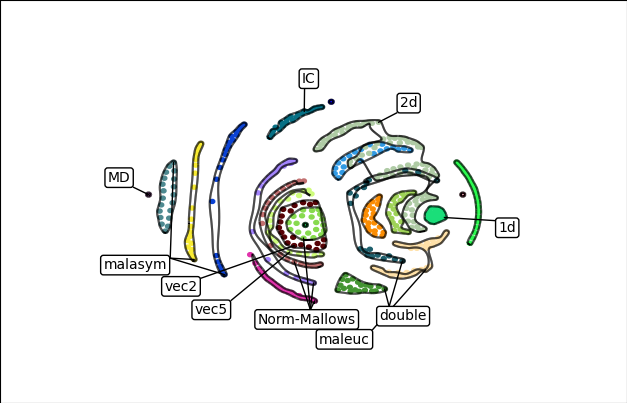
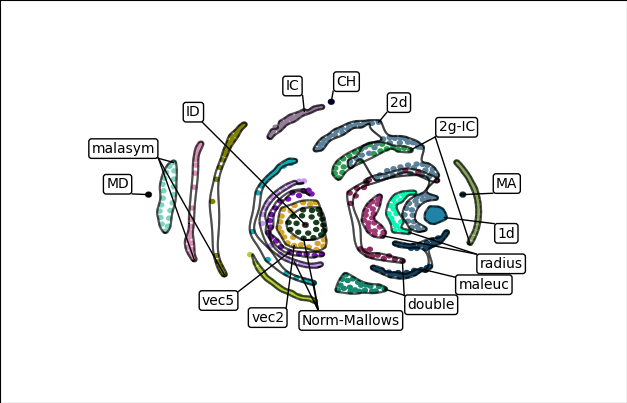
divide and conquare solution finished + pngs tests generated

diff --git a/src/generator/labels_generator.py b/src/generator/labels_generator.py
@@ -79,17 +79,11 @@ def divide_and_conquare(ll):
             merged_ll[intersections_i[0]].append(label)
             for i in range(1,len(intersections_i)):
                 merged_ll[intersections_i[0]].extend(merged_ll[intersections_i[i - shift]])
-                merged_ll.pop(i - shift)
+                merged_ll.pop(intersections_i[i - shift])
                 shift += 1
         else:
             merged_ll.append([label])
-    
-    print(len(ll))
-    print(len(merged_ll))
-    sm = 0
-    for s in merged_ll:
-        sm += len(s)
-    print(sm)
+
     return merged_ll
 
 # ---------------------------------------------------------------------------- #
@@ -123,6 +117,9 @@ class Label:
         self.points = self.get_points()
         self.t_point = self.get_tpoint()
 
+    def __repr__(self):
+        return self.text
+
     def update_params(self, r, a, t):
         self.r = r
         self.a = a
@@ -148,7 +145,7 @@ class Label:
             return tuple_add(self.points[3], (0, self.height*(self.t % 1)))
         
     def get_point(self):
-        return self.rp_x + self.r*np.sin(self.a), self.rp_y + self.r*np.cos(self.a)
+        return self.rp_x + self.r*np.cos(self.a), self.rp_y + self.r*np.sin(self.a)
     
     def get_err(self, include_x0: bool = False):
         if include_x0:
@@ -234,7 +231,7 @@ class MultiRefLabel(Label):
         self.t_point = self.get_tpoint()
 
     def get_point(self):
-        return self.rps_x[0] + self.r*np.sin(self.a), self.rps_y[0] + self.r*np.cos(self.a)
+        return self.rps_x[0] + self.r*np.cos(self.a), self.rps_y[0] + self.r*np.sin(self.a)
         
     def get_err(self, include_x0: bool = False):
         err_sum = 0
@@ -368,18 +365,31 @@ def greedy(middle_point: Point, ll: List[Label], ms: MainSet) -> np.ndarray:
         nx, ny = mpx + t*(lpx-mpx), mpy + t*(lpy-mpy)
 
         # set new label parameters based on what positioning
+        nt = 0
         if lpy >= mpy and lpx >= mpx:
             # upper right
-            label.update_params(nx + label.width/2, ny + label.height/2, 3)
+            nx += label.w2
+            ny += label.h2
+            nt = 3
         elif lpy >= mpy and lpx < mpx:
             # upper left
-            label.update_params(nx - label.width/2, ny + label.height/2, 2)
+            nx -= label.w2
+            ny += label.h2
+            nt = 2
         elif lpy < mpy and lpx >= mpx:
             # lower right
-            label.update_params(nx + label.width/2, ny - label.height/2, 0)
+            nx += label.width/2
+            ny -= label.height/2
+            nt = 0
         else:
             # lower left
-            label.update_params(nx - label.width/2, ny - label.height/2, 1)
+            nx -= label.width/2
+            ny -= label.height/2
+            nt = 1
+        r = np.sqrt(np.square(nx-lpx) + np.square(ny-lpy))
+        a = np.arctan2((ny-lpy), (nx-lpx))
+
+        label.update_params(r, a, nt)
 
     return Label.ll_get(ll)
 
@@ -521,7 +531,66 @@ def mixed_loss(x: np.ndarray, label_list: List[Label], static_label_list: List[L
         # loss
         loss += label.get_err(include_x0_in_err)
 
-    return loss*((1 + intersections)**2)
+    return loss + intersections**2
+
+def mixed_square_loss(x: np.ndarray, label_list: List[Label], static_label_list: List[Label], main_set: MainSet, include_x0_in_err: bool = False):
+
+    # ---------------------------------- UPDATE ---------------------------------- #
+
+    for i, label in enumerate(label_list):
+        label.update_params(x[i*2], x[i*2+1], x[len(label_list)*2 + i])
+    
+    # ----------------------------------- LOSS ----------------------------------- #
+    
+    intersections = 0
+    loss = 0
+
+    for cur_label in label_list:
+
+        tp = cur_label.get_tpoint()
+        rp = cur_label.get_root_point()
+
+        # dynamic labels
+        for other_label in label_list:
+            if cur_label is not other_label:
+                
+                # label intersections
+                if other_label in cur_label:
+                    intersections += 5
+                
+                #line intersections
+                pts = other_label.get_points()
+                for point_idx in range(3):
+                    if MainSet._line_intersect(rp[0], rp[1], tp[0], tp[1], pts[point_idx][0], pts[point_idx][1], pts[point_idx+1][0], pts[point_idx+1][1]) is not None:
+                        intersections += 2
+                otp = other_label.get_tpoint()
+                orp = other_label.get_root_point()
+                if MainSet._line_intersect(rp[0], rp[1], tp[0], tp[1], orp[0], orp[1], otp[0], otp[1]) is not None:
+                    intersections += 2
+
+        # static labels
+        for other_label in static_label_list:
+            
+            # label intersections
+            if other_label in cur_label:
+                intersections += 5
+
+            #line intersections
+                pts = other_label.get_points()
+                for point_idx in range(3):
+                    if MainSet._line_intersect(rp[0], rp[1], tp[0], tp[1], pts[point_idx][0], pts[point_idx][1], pts[point_idx+1][0], pts[point_idx+1][1]) is not None:
+                        intersections += 2
+                otp = other_label.get_tpoint()
+                orp = other_label.get_root_point()
+                if MainSet._line_intersect(rp[0], rp[1], tp[0], tp[1], orp[0], orp[1], otp[0], otp[1]) is not None:
+                    intersections += 2
+        
+        if any(point in main_set for point in cur_label.points):
+            intersections += 15
+
+        loss += cur_label.get_err(include_x0_in_err)
+
+    return loss + intersections**2
     
 # ---------------------------------------------------------------------------- #
 #                                 HULL SWELLER                                 #
@@ -685,20 +754,22 @@ def calc(idata: InData,
         accept = curr_config['accept']
         no_local_search = curr_config['no_local_search']
         
-        res_ll = []
-        for group in divide_and_conquare(ll):
+        daql = divide_and_conquare(ll)
+        res_ll = [group[0] for group in daql if len(group) == 1]
+        for group in daql:
+
+            if len(group) == 1:
+                continue
             
-            # TODO: skip single optimizations
-            
-            labels_bounds = [(0, 150), (0, np.pi*2)]*len(group)
+            labels_bounds = [(0, 190), (0, np.pi*2)]*len(group)
             labels_bounds.extend([(0, 4)]*len(group))
             
-            lres = dual_annealing(mixed_loss, bounds=labels_bounds, args=(group, res_ll, mset),
+            lres = dual_annealing(mixed_square_loss, bounds=labels_bounds, args=(group, res_ll, mset),
                                   maxiter=maxiter, visit=visit, initial_temp=initial_temp, restart_temp_ratio=restart_temp_ratio, 
                                   accept=accept, no_local_search=no_local_search)
             lx = lres.x
 
-            loss = mixed_loss(lx, group, res_ll, mset) # updates the label with finall x (and calculates finall intersection flag)
+            loss = mixed_square_loss(lx, group, res_ll, mset) # updates the label with finall x
             res_ll.extend(group)
 
         x = Label.ll_get(res_ll)
@@ -722,17 +793,17 @@ def calc(idata: InData,
 def parse_solution_to_editor(labels: dict, state: dict) -> dict:
     
     for i, label_name in enumerate(labels.keys()):
-        
+
         # parse arrow set if possible
         arrows = {}
         if labels[label_name].get('rpoints'):
-            for i, rpoint in enumerate(labels[label_name]['rpoints']):
-                arrows[i] = {
+            for j, rpoint in enumerate(labels[label_name]['rpoints']):
+                arrows[j] = {
                     'ref_x': rpoint[0],
                     'ref_y': rpoint[1],
                     'att_x': labels[label_name]['tpoint'][0],
                     'att_y': labels[label_name]['tpoint'][1],
-                    'val': labels[label_name]['parameters'][i]
+                    'val': labels[label_name]['parameters'][j]
                 }
         else:
             arrows[0] = {
@@ -819,15 +890,9 @@ def _test():
 # [x] try polar coordinates
 # [x] iterative approach
 # [x] hull swelling
-# [ ] iterative with forced no intersection solution
-# [ ] divide and conquare solution (by initial x0)
+# [x] divide and conquare solution (by initial x0)
 # [ ] iterative x0
 # [ ] divide and conquare solution (after initial iterative solution, using final lines intersections)
-
-#Questions:
-# - filter na nazwy zbiorów dla których nie generujemy niczego / mergujemy parametry (łatwe do zrobienia ale nie wysokie w priorytecie)
-# - czy aktualne funkcjonalności (oprócz optymalizacji) to jest wszystko
-# - 
 
 # IMPORTANT
 

diff --git a/example.py b/example.py
@@ -3,12 +3,15 @@ from src.main import draw_maps, draw_maps_editor
 import time
 # draw_maps_editor("data/kk_swap_2d.csv", None)
 s = time.time()
-draw_maps("data/kk_swap_2d.csv", "pngs/kk_swap_2d_iter", config_id='iterative')
-draw_maps("data/smaller_data.csv", "pngs/smaller_data_iter", config_id='iterative')
+# draw_maps("data/kk_swap_2d.csv", "pngs/kk_swap_2d_iter", config_id='iterative')
+# draw_maps("data/smaller_data.csv", "pngs/smaller_data_iter", config_id='iterative')
 draw_maps("data/kamada_l1-mutual_attraction_2d.csv", "pngs/kamada_l1-mutual_attraction_2d_iter", config_id='iterative')
+e = time.time()
+print(f"{e-s}s")
 
-draw_maps("data/kk_swap_2d.csv", "pngs/kk_swap_2d_daq", config_id='divide_and_conquare')
-draw_maps("data/smaller_data.csv", "pngs/smaller_data_daq", config_id='divide_and_conquare')
+s = time.time()
+# draw_maps("data/kk_swap_2d.csv", "pngs/kk_swap_2d_daq", config_id='divide_and_conquare')
+# draw_maps("data/smaller_data.csv", "pngs/smaller_data_daq", config_id='divide_and_conquare')
 draw_maps("data/kamada_l1-mutual_attraction_2d.csv", "pngs/kamada_l1-mutual_attraction_2d_daq", config_id='divide_and_conquare')
 e = time.time()
 print(f"{e-s}s")

diff --git a/src/generator/hull_generator.py b/src/generator/hull_generator.py
@@ -366,7 +366,8 @@ def calc_hull(data: dict, circle_radious: float, points_in_circle: int, segment_
         _idx_points = [points_transform[idxes[i]] for i in range(len(idxes))]
         
         if hull_name=="Interval":
-            print(_idx_points)
+            # print(_idx_points)
+            ...
 
         points_transform, to_jarvis = convert_points(
             _idx_points, circle_radious, num_of_points=points_in_circle
